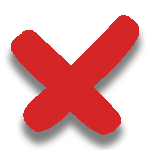
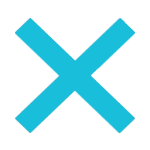
stylistic changes

diff --git a/styles.css b/styles.css
@@ -9,24 +9,28 @@
 #cvs{
     position: absolute;
     border: 1px solid #000;
+    border-radius: 7%;
 }
 
 .options{
     position: absolute;
     width: 450px;
     height: 450px;
+    display: flex;
+    justify-content: center;
+    flex-direction: column;
 }
 
 .options h1{
     text-align: center;
     font-size: 65px;
-    font-family: 'Fascinate Inline', cursive;
-    color: #f00;
+    font-family: 'Noto Sans', sans-serif;
+    color: rgba(25, 190, 219, 0.973);
     margin: 30px 0 20px 0;
 }
 
 .options h2{
-    font-family: 'Franklin Gothic Medium', 'Arial Narrow', Arial, sans-serif;
+    font-family: 'Open Sans', sans-serif;
     text-align: center;
     font-weight: bold;
 }
@@ -36,13 +40,13 @@
 }
 
 .options .computer, .x{
-    font-family: 'Franklin Gothic Medium', 'Arial Narrow', Arial, sans-serif;
+    font-family: 'Open Sans', sans-serif;
     padding: 5px;
     background-color: #FFF;
     color: #000;
     font-size: 1.5em;
     border-radius: 5px;
-    margin-left: 70px;
+    margin-left: 60px;
     width: 150px;
     text-align: center;
     cursor: pointer;
@@ -50,7 +54,7 @@
 }
 
 .options .friend, .o{
-    font-family: 'Franklin Gothic Medium', 'Arial Narrow', Arial, sans-serif;
+    font-family: 'Open Sans', sans-serif;
     padding: 5px;
     background-color: #FFF;
     color: #000;
@@ -69,7 +73,7 @@
 }
 
 .options .play{
-    font-family: 'Franklin Gothic Medium', 'Arial Narrow', Arial, sans-serif;
+    font-family: 'Open Sans', sans-serif;
     font-size: 1.5em;
     width: 70px;
     display: block;
@@ -101,13 +105,16 @@
     width: 450px;
     height: 450px;
     background-color: rgba(0, 0, 0, 0.95);
+    border: 1px solid black;
+    border-radius: 7%;
 }
 .gameover h1{
     text-align: center;
     font-size: 50px;
-    font-family: 'Fascinate Inline', cursive;
+    font-family: 'Noto Sans', sans-serif;
     color: #fff;
     margin: 40px 0 20px 0;
+    border-radius: 7%;
 }
 
 .gameover .winner-img{
@@ -116,7 +123,7 @@
 }
 
 .gameover .play{
-    font-family: 'Franklin Gothic Medium', 'Arial Narrow', Arial, sans-serif;
+    font-family: 'Noto Sans', sans-serif;
     font-size: 1.5em;
     width: 150px;
     display: block;

diff --git a/index.html b/index.html
@@ -7,20 +7,25 @@
     <meta name="viewport" content="width=device-width, initial-scale=1.0">
     <title>Tic Tac Toe</title>
     <link rel="stylesheet" href="styles.css">
+    <link rel="preconnect" href="https://fonts.gstatic.com">
+    <link href="https://fonts.googleapis.com/css2?family=Open+Sans&display=swap" rel="stylesheet">
+    <link href="https://fonts.googleapis.com/css2?family=Noto+Sans&display=swap" rel="stylesheet">
 </head>
 
 <body>
     <div class="container">
         <canvas id='cvs' width='450' height='450'></canvas>
         <div class="options">
-            <h1>TIC TAC TOE</h1>
-            <h2>Play versus</h2>
-            <div class="computer">Computer</div>
-            <div class="friend">Friend</div>
-            <h2>Symbol</h2>
-            <div class="x">x</div>
-            <div class="o">o</div>
-            <div class="play">play</div>
+            <h1>tic tac toe</h1>
+            <span class="innerbox">
+                <h2>game mode</h2>
+                <div class="computer">1 player</div>
+                <div class="friend">2 player</div>
+                <h2>starting symbol</h2>
+                <div class="x">x</div>
+                <div class="o">o</div>
+                <div class="play">play</div>
+            </span>
         </div>
         <div class="gameover hide"></div>
     </div>

diff --git a/game.js b/game.js
@@ -13,7 +13,7 @@ function init(player, OPPONENT) {
     let currentPlayer = player.man;
 
     const xImage = new Image();
-    xImage.src = 'x.jfif'
+    xImage.src = 'x.png'
     const oImage = new Image();
     oImage.src = 'O.png'
 
@@ -135,13 +135,13 @@ function init(player, OPPONENT) {
     }
 
     function showGameOver(player) {
-        let message = player == "tie" ? "Oops No Winner" : "The Winner is";
+        let message = player == "tie" ? "nobody won!" : "the winner is...";
         let imgSrc = `${player}.png`;
 
         gameOverElement.innerHTML = `
             <h1>${message}</h1>
             <img class="winner-img" src=${imgSrc} </img>
-            <div class="play" onclick="location.reload()">Play Again!</div>
+            <div class="play" onclick="location.reload()">run it back</div>
         `;
 
         gameOverElement.classList.remove("hide");

diff --git a/options.js b/options.js
@@ -38,14 +38,14 @@ friendBtn.addEventListener("click", function () {
 
 playBtn.addEventListener("click", function () {
     if (!OPPONENT) {
-        computerBtn.style.backgroundColor = "red";
-        friendBtn.style.backgroundColor = "red";
+        computerBtn.style.backgroundColor = "LightCoral";
+        friendBtn.style.backgroundColor = "LightCoral";
         return;
     }
 
     if (!player.man) {
-        oBtn.style.backgroundColor = "red";
-        xBtn.style.backgroundColor = "red";
+        oBtn.style.backgroundColor = "LightCoral";
+        xBtn.style.backgroundColor = "LightCoral";
         return;
     }
 
